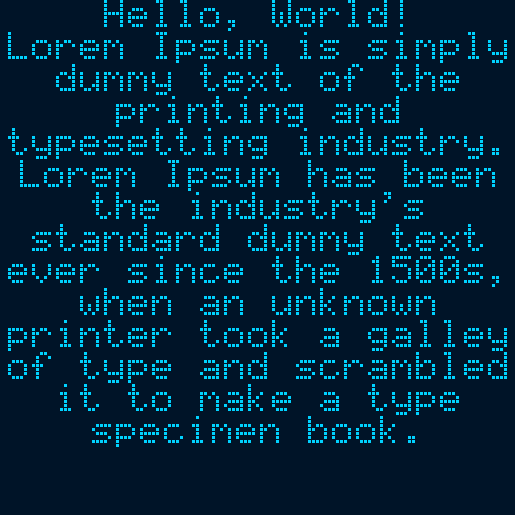
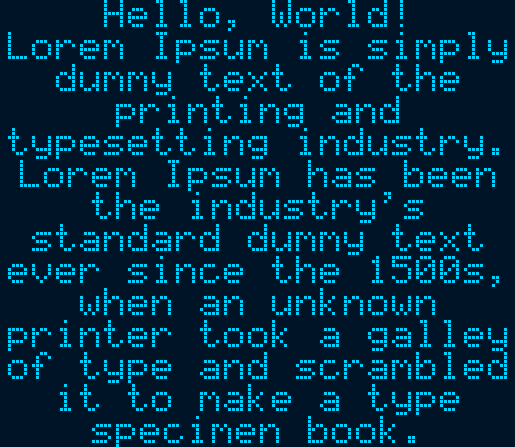
Change examples to be as tall as necessary

Changed region(s): [[0.0, 0.0, 0.9942, 1.0]]

diff --git a/src/lib.rs b/src/lib.rs
@@ -21,23 +21,26 @@
 //!     BinaryColorTheme, OutputSettingsBuilder, SimulatorDisplay, Window,
 //! };
 //!
-//! use embedded_graphics::{
-//!     fonts::Font6x8, pixelcolor::BinaryColor, prelude::*, primitives::Rectangle,
-//! };
+//! use embedded_graphics::{fonts::Font6x8, pixelcolor::BinaryColor, prelude::*};
 //!
-//! use embedded_text::{alignment::CenterAligned, style::TextBoxStyleBuilder, TextBox};
+//! use embedded_text::{alignment::CenterAligned, prelude::*};
 //!
 //! fn main() -> Result<(), core::convert::Infallible> {
-//!     let mut display: SimulatorDisplay<BinaryColor> = SimulatorDisplay::new(Size::new(129, 129));
+//!     let text = "Hello, World!\nLorem Ipsum is simply dummy text of the printing and typesetting industry. Lorem Ipsum has been the industry's standard dummy text ever since the 1500s, when an unknown printer took a galley of type and scrambled it to make a type specimen book.";
 //!
 //!     let textbox_style = TextBoxStyleBuilder::new(Font6x8)
 //!         .alignment(CenterAligned)
 //!         .text_color(BinaryColor::On)
 //!         .build();
 //!
+//!     let height = textbox_style.measure_text_height(text, 129);
+//!
+//!     // Create a window just tall enough to fit the text.
+//!     let mut display: SimulatorDisplay<BinaryColor> = SimulatorDisplay::new(Size::new(129, height));
+//!
 //!     TextBox::new(
-//!         "Hello, World!\nLorem Ipsum is simply dummy text of the printing and typesetting industry. Lorem Ipsum has been the industry's standard dummy text ever since the 1500s, when an unknown printer took a galley of type and scrambled it to make a type specimen book.",
-//!         Rectangle::new(Point::zero(), Point::new(128, 128)),
+//!         text,
+//!         Rectangle::new(Point::zero(), Point::new(128, height as i32)),
 //!     )
 //!     .into_styled(textbox_style)
 //!     .draw(&mut display)

diff --git a/examples/center.rs b/examples/center.rs
@@ -7,16 +7,21 @@ use embedded_graphics::{fonts::Font6x8, pixelcolor::BinaryColor, prelude::*};
 use embedded_text::{alignment::CenterAligned, prelude::*};
 
 fn main() -> Result<(), core::convert::Infallible> {
-    let mut display: SimulatorDisplay<BinaryColor> = SimulatorDisplay::new(Size::new(129, 129));
+    let text = "Hello, World!\nLorem Ipsum is simply dummy text of the printing and typesetting industry. Lorem Ipsum has been the industry's standard dummy text ever since the 1500s, when an unknown printer took a galley of type and scrambled it to make a type specimen book.";
 
     let textbox_style = TextBoxStyleBuilder::new(Font6x8)
         .alignment(CenterAligned)
         .text_color(BinaryColor::On)
         .build();
 
+    let height = textbox_style.measure_text_height(text, 129);
+
+    // Create a window just tall enough to fit the text.
+    let mut display: SimulatorDisplay<BinaryColor> = SimulatorDisplay::new(Size::new(129, height));
+
     TextBox::new(
-        "Hello, World!\nLorem Ipsum is simply dummy text of the printing and typesetting industry. Lorem Ipsum has been the industry's standard dummy text ever since the 1500s, when an unknown printer took a galley of type and scrambled it to make a type specimen book.",
-        Rectangle::new(Point::zero(), Point::new(128, 128)),
+        text,
+        Rectangle::new(Point::zero(), Point::new(128, height as i32)),
     )
     .into_styled(textbox_style)
     .draw(&mut display)

diff --git a/examples/right.rs b/examples/right.rs
@@ -7,16 +7,21 @@ use embedded_graphics::{fonts::Font6x8, pixelcolor::BinaryColor, prelude::*};
 use embedded_text::{alignment::RightAligned, prelude::*};
 
 fn main() -> Result<(), core::convert::Infallible> {
-    let mut display: SimulatorDisplay<BinaryColor> = SimulatorDisplay::new(Size::new(129, 129));
+    let text = "Hello, World!\nLorem Ipsum is simply dummy text of the printing and typesetting industry. Lorem Ipsum has been the industry's standard dummy text ever since the 1500s, when an unknown printer took a galley of type and scrambled it to make a type specimen book.";
 
     let textbox_style = TextBoxStyleBuilder::new(Font6x8)
         .alignment(RightAligned)
         .text_color(BinaryColor::On)
         .build();
 
+    let height = textbox_style.measure_text_height(text, 129);
+
+    // Create a window just tall enough to fit the text.
+    let mut display: SimulatorDisplay<BinaryColor> = SimulatorDisplay::new(Size::new(129, height));
+
     TextBox::new(
-        "Hello, World!\nLorem Ipsum is simply dummy text of the printing and typesetting industry. Lorem Ipsum has been the industry's standard dummy text ever since the 1500s, when an unknown printer took a galley of type and scrambled it to make a type specimen book.",
-        Rectangle::new(Point::zero(), Point::new(128, 128)),
+        text,
+        Rectangle::new(Point::zero(), Point::new(128, height as i32)),
     )
     .into_styled(textbox_style)
     .draw(&mut display)

diff --git a/examples/justified.rs b/examples/justified.rs
@@ -7,16 +7,21 @@ use embedded_graphics::{fonts::Font6x8, pixelcolor::BinaryColor, prelude::*};
 use embedded_text::{alignment::Justified, prelude::*};
 
 fn main() -> Result<(), core::convert::Infallible> {
-    let mut display: SimulatorDisplay<BinaryColor> = SimulatorDisplay::new(Size::new(129, 129));
+    let text = "Hello, World!\nLorem Ipsum is simply dummy text of the printing and typesetting industry. Lorem Ipsum has been the industry's standard dummy text ever since the 1500s, when an unknown printer took a galley of type and scrambled it to make a type specimen book.";
 
     let textbox_style = TextBoxStyleBuilder::new(Font6x8)
         .alignment(Justified)
         .text_color(BinaryColor::On)
         .build();
 
+    let height = textbox_style.measure_text_height(text, 129);
+
+    // Create a window just tall enough to fit the text.
+    let mut display: SimulatorDisplay<BinaryColor> = SimulatorDisplay::new(Size::new(129, height));
+
     TextBox::new(
-        "Hello, World!\nLorem Ipsum is simply dummy text of the printing and typesetting industry. Lorem Ipsum has been the industry's standard dummy text ever since the 1500s, when an unknown printer took a galley of type and scrambled it to make a type specimen book.",
-        Rectangle::new(Point::zero(), Point::new(128, 128)),
+        text,
+        Rectangle::new(Point::zero(), Point::new(128, height as i32)),
     )
     .into_styled(textbox_style)
     .draw(&mut display)

diff --git a/examples/left.rs b/examples/left.rs
@@ -9,15 +9,20 @@ use embedded_graphics::{
 use embedded_text::prelude::*;
 
 fn main() -> Result<(), core::convert::Infallible> {
-    let mut display: SimulatorDisplay<BinaryColor> = SimulatorDisplay::new(Size::new(129, 129));
+    let text = "Hello, World!\nLorem Ipsum is simply dummy text of the printing and typesetting industry. Lorem Ipsum has been the industry's standard dummy text ever since the 1500s, when an unknown printer took a galley of type and scrambled it to make a type specimen book.";
 
     let textbox_style = TextBoxStyleBuilder::new(Font6x8)
         .text_color(BinaryColor::On)
         .build();
 
+    let height = textbox_style.measure_text_height(text, 129);
+
+    // Create a window just tall enough to fit the text.
+    let mut display: SimulatorDisplay<BinaryColor> = SimulatorDisplay::new(Size::new(129, height));
+
     TextBox::new(
-        "Hello, World!\nLorem Ipsum is simply dummy text of the printing and typesetting industry. Lorem Ipsum has been the industry's standard dummy text ever since the 1500s, when an unknown printer took a galley of type and scrambled it to make a type specimen book.",
-        Rectangle::new(Point::zero(), Point::new(128, 128)),
+        text,
+        Rectangle::new(Point::zero(), Point::new(128, height as i32)),
     )
     .into_styled(textbox_style)
     .draw(&mut display)

diff --git a/README.md b/README.md
@@ -23,23 +23,26 @@ use embedded_graphics_simulator::{
     BinaryColorTheme, OutputSettingsBuilder, SimulatorDisplay, Window,
 };
 
-use embedded_graphics::{
-    fonts::Font6x8, pixelcolor::BinaryColor, prelude::*, primitives::Rectangle,
-};
+use embedded_graphics::{fonts::Font6x8, pixelcolor::BinaryColor, prelude::*};
 
-use embedded_text::{alignment::CenterAligned, style::TextBoxStyleBuilder, TextBox};
+use embedded_text::{alignment::CenterAligned, prelude::*};
 
 fn main() -> Result<(), core::convert::Infallible> {
-    let mut display: SimulatorDisplay<BinaryColor> = SimulatorDisplay::new(Size::new(129, 129));
+    let text = "Hello, World!\nLorem Ipsum is simply dummy text of the printing and typesetting industry. Lorem Ipsum has been the industry's standard dummy text ever since the 1500s, when an unknown printer took a galley of type and scrambled it to make a type specimen book.";
 
     let textbox_style = TextBoxStyleBuilder::new(Font6x8)
         .alignment(CenterAligned)
         .text_color(BinaryColor::On)
         .build();
 
+    let height = textbox_style.measure_text_height(text, 129);
+
+    // Create a window just tall enough to fit the text.
+    let mut display: SimulatorDisplay<BinaryColor> = SimulatorDisplay::new(Size::new(129, height));
+
     TextBox::new(
-        "Hello, World!\nLorem Ipsum is simply dummy text of the printing and typesetting industry. Lorem Ipsum has been the industry's standard dummy text ever since the 1500s, when an unknown printer took a galley of type and scrambled it to make a type specimen book.",
-        Rectangle::new(Point::zero(), Point::new(128, 128)),
+        text,
+        Rectangle::new(Point::zero(), Point::new(128, height as i32)),
     )
     .into_styled(textbox_style)
     .draw(&mut display)
